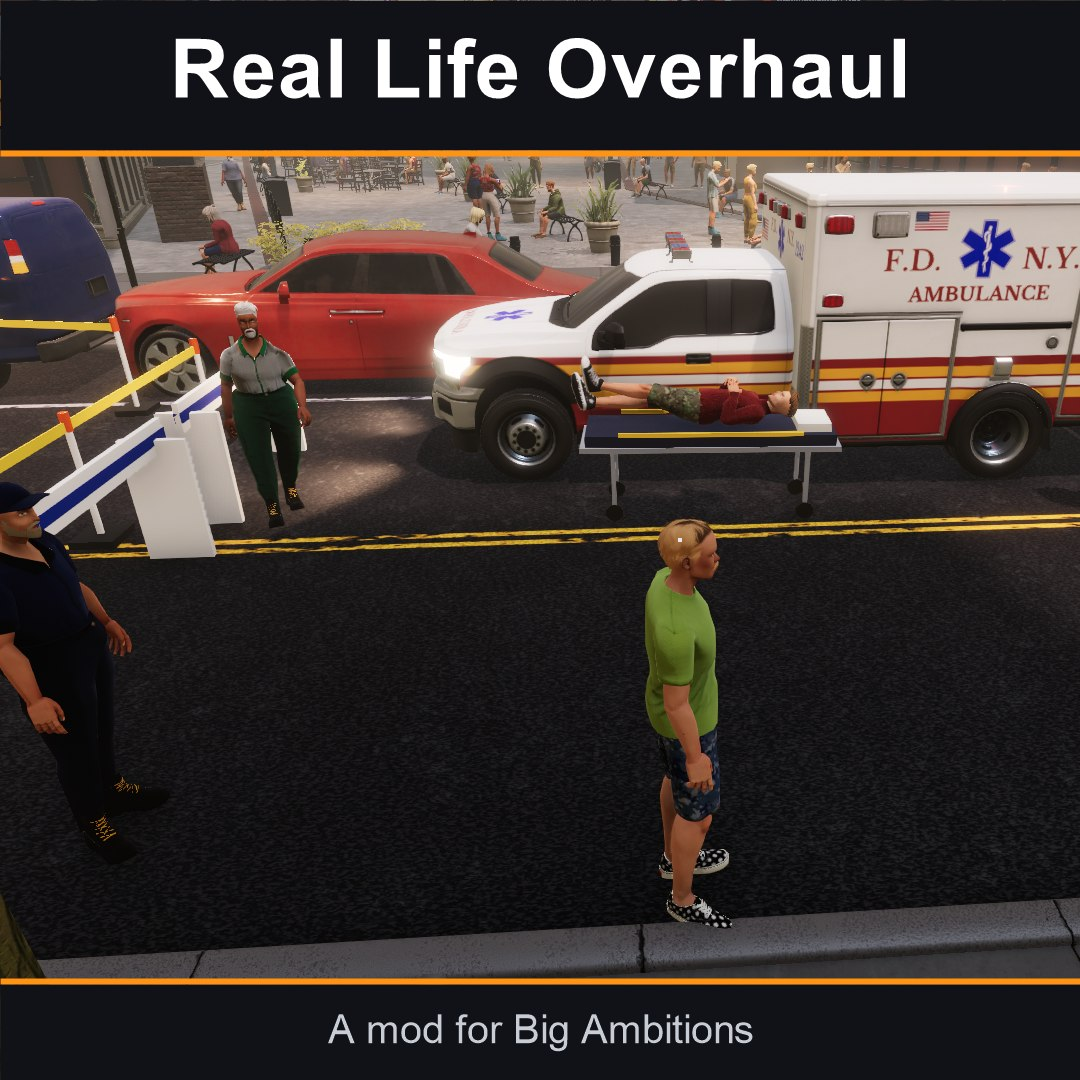
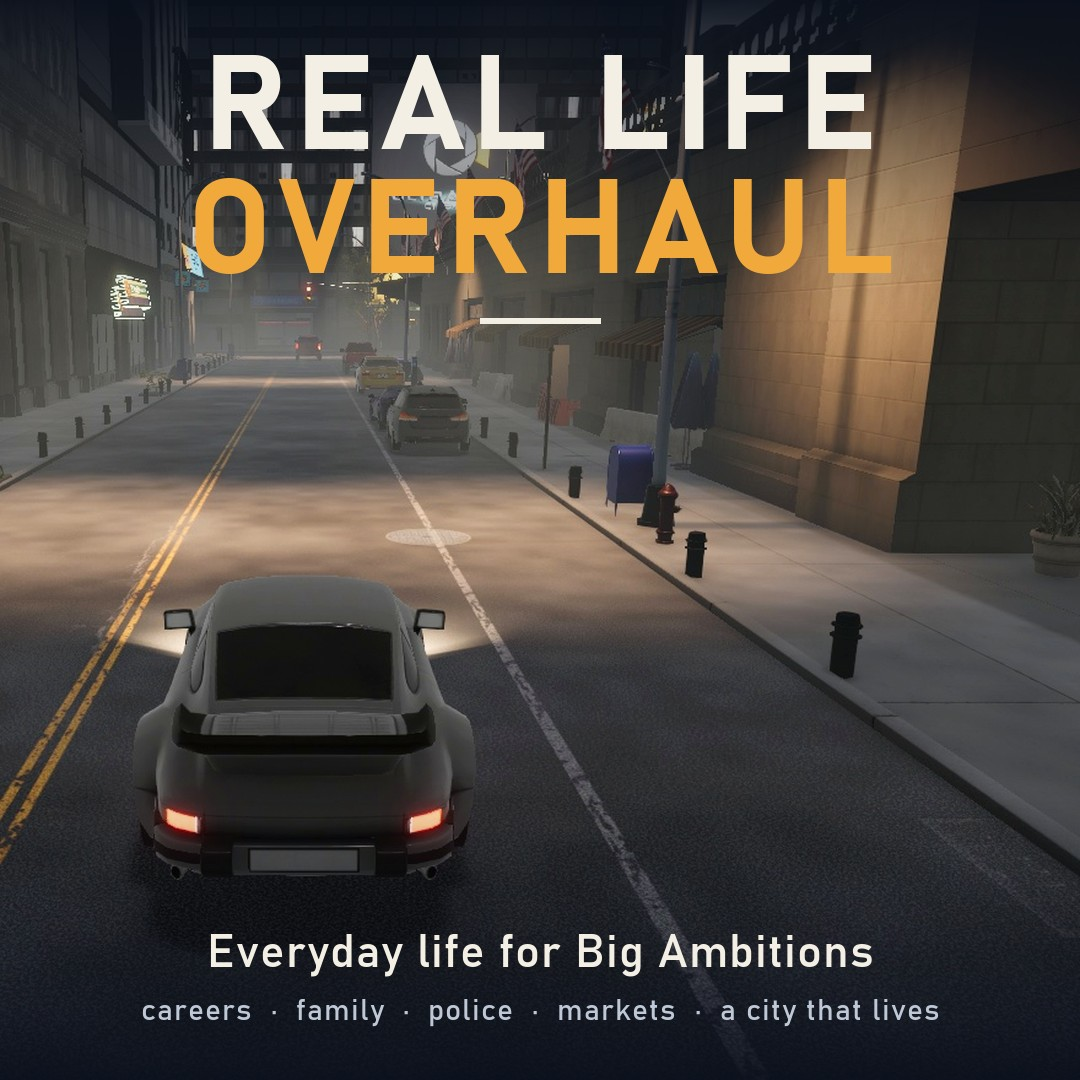
The mod's picture is a night drive under the mod's name, drawn by a script beside its source

diff --git a/RealLifeOverhaul.Build/Workshop/make_thumbnail.py b/RealLifeOverhaul.Build/Workshop/make_thumbnail.py
@@ -1,0 +1,50 @@
+"""Makes the Workshop thumbnail from one of the author's own screenshots.
+
+  python -I RealLifeOverhaul.Build/Workshop/make_thumbnail.py
+
+Source: thumbnail_source.jpg beside this file, the square of a night drive down 2nd Avenue that holds none of the
+interface. The top and the foot are darkened so that the title and the line under it read; nothing else is drawn
+over the scene. The lettering is Bahnschrift, which comes with Windows.
+Result: Assets/Mods/RealLifeOverhaul/thumbnail.jpg, 1080x1080. The game's uploader takes the first .png, .jpg or
+.jpeg in the root of the mod folder that is no larger than its limit (1 MB), whatever its name, so this must stay
+the only picture there.
+"""
+import os
+from PIL import Image, ImageDraw, ImageEnhance, ImageFont
+
+HERE = os.path.dirname(os.path.abspath(__file__))
+OUT = os.path.join(HERE, '..', '..', 'Assets', 'Mods', 'RealLifeOverhaul', 'thumbnail.jpg')
+SIDE = 1080
+INK, AMBER, GREY, NIGHT = (244, 239, 228), (242, 169, 59), (190, 200, 214), (10, 16, 28)
+
+scene = Image.open(os.path.join(HERE, 'thumbnail_source.jpg')).convert('RGB').resize((SIDE, SIDE), Image.LANCZOS)
+scene = ImageEnhance.Color(ImageEnhance.Contrast(scene).enhance(1.08)).enhance(1.12)
+shade = Image.new('L', (1, SIDE))
+for y in range(SIDE):
+    top = max(0.0, 1 - y / 330.0) ** 1.4 * 235
+    foot = max(0.0, (y - (SIDE - 300)) / 300.0) ** 1.3 * 235
+    shade.putpixel((0, y), int(min(255, max(top, foot))))
+picture = Image.composite(Image.new('RGB', (SIDE, SIDE), NIGHT), scene, shade.resize((SIDE, SIDE)))
+draw = ImageDraw.Draw(picture)
+
+
+def font(size, weight):
+    face = ImageFont.truetype('C:/Windows/Fonts/bahnschrift.ttf', size)
+    face.set_variation_by_axes([weight, 100])
+    return face
+
+
+def centred(text, y, face, fill, gap):
+    x = (SIDE - (sum(draw.textlength(c, font=face) + gap for c in text) - gap)) / 2
+    for c in text:
+        draw.text((x, y), c, font=face, fill=fill)
+        x += draw.textlength(c, font=face) + gap
+
+
+centred('REAL LIFE', 44, font(132, 700), INK, 6)
+centred('OVERHAUL', 168, font(132, 700), AMBER, 6)
+draw.rectangle([(SIDE - 120) / 2, 318, (SIDE + 120) / 2, 323], fill=INK)
+centred('Everyday life for Big Ambitions', SIDE - 150, font(46, 500), INK, 1)
+centred('careers  ·  family  ·  police  ·  markets  ·  a city that lives', SIDE - 84, font(30, 400), GREY, 1)
+picture.save(OUT, quality=90)
+print(os.path.getsize(OUT), 'bytes')

diff --git a/RealLifeOverhaul.Build/Workshop/UPLOAD.md b/RealLifeOverhaul.Build/Workshop/UPLOAD.md
@@ -12,7 +12,7 @@ The upload is done from inside the game. Everything else is prepared here. What 
 | `changenote.txt` | the change note; the form only asks for one on an update |
 | `tags.txt` | why there is nothing to choose |
 | `gallery/` | seven screenshots for the Steam page |
-| `make_thumbnail.ps1` | rebuilds `Assets/Mods/RealLifeOverhaul/thumbnail.jpg` |
+| `make_thumbnail.py` | rebuilds `Assets/Mods/RealLifeOverhaul/thumbnail.jpg` |
 | `CREDITS.md` | what the mod contains and where it came from; has a licence line to fill in |
 | `STYLE.md`, `check.pl` | the writing rules for the mod's texts and the script that checks them |
 
@@ -26,7 +26,7 @@ The upload is done from inside the game. Everything else is prepared here. What 
    | File | Size |
    | --- | --- |
    | `RealLifeOverhaul.dll` | about 3.1 MB |
-   | `thumbnail.jpg` | about 216 KB |
+   | `thumbnail.jpg` | about 200 KB |
    | `Locales\en.json` | about 0.7 MB |
    | `Bundles\reallife_anim` | 6,294,571 bytes |
    | `Bundles\reallife_character` | 44,520,019 bytes |
@@ -68,7 +68,7 @@ Two more things follow from the mod now having a different id (its Workshop numb
 
    | File | Shows |
    | --- | --- |
-   | `01_accident_ambulance.jpg` | an accident: the ambulance, a casualty on the stretcher, paramedics, an officer, the cordon (the thumbnail's source) |
+   | `01_accident_ambulance.jpg` | an accident: the ambulance, a casualty on the stretcher, paramedics, an officer, the cordon |
    | `02_pedestrian_down_cordon.jpg` | a pedestrian hit by a van: cones, police tape, the barrier, paramedics at work |
    | `03_bus_stop.jpg` | a bus stop with its shelter, route sign and the timetable panel |
    | `04_coffee_cart.jpg` | buying a coffee at the cart, with the notices for it |

diff --git a/RealLifeOverhaul.Build/Workshop/CREDITS.md b/RealLifeOverhaul.Build/Workshop/CREDITS.md
@@ -19,7 +19,7 @@ What Real Life Overhaul 0.1.0 contains, and where each part came from. The in-ga
 | `Bundles/reallife_anim` | 77 animations | written as scripts in `CityAssets/scripts`, exported with Blender; see `CityAssets/CREDITS.md` |
 | `Sounds/*.ogg` | 33 recorded car sounds: four engines (a small petrol, a V8, a sports engine, a diesel) at steady revs on and off the throttle, exhaust pops, a turbo's whistle and flutter, a tyre squeal | real recordings from Freesound.org, cut, looped and levelled for this mod; every file, its source, author, licence and what was changed are in `Sounds/SOURCES.md`, which ships beside them |
 | `Sounds/SOURCES.md` | where each sound came from | written for this mod |
-| `thumbnail.jpg` | the Workshop picture | the author's own screenshot of the game with the mod running, cropped, with the title added (`make_thumbnail.ps1`) |
+| `thumbnail.jpg` | the Workshop picture | the author's own screenshot of the game with the mod running, cropped, with the title added (`make_thumbnail.py`) |
 
 ## What of the game is used, and what is not
 
